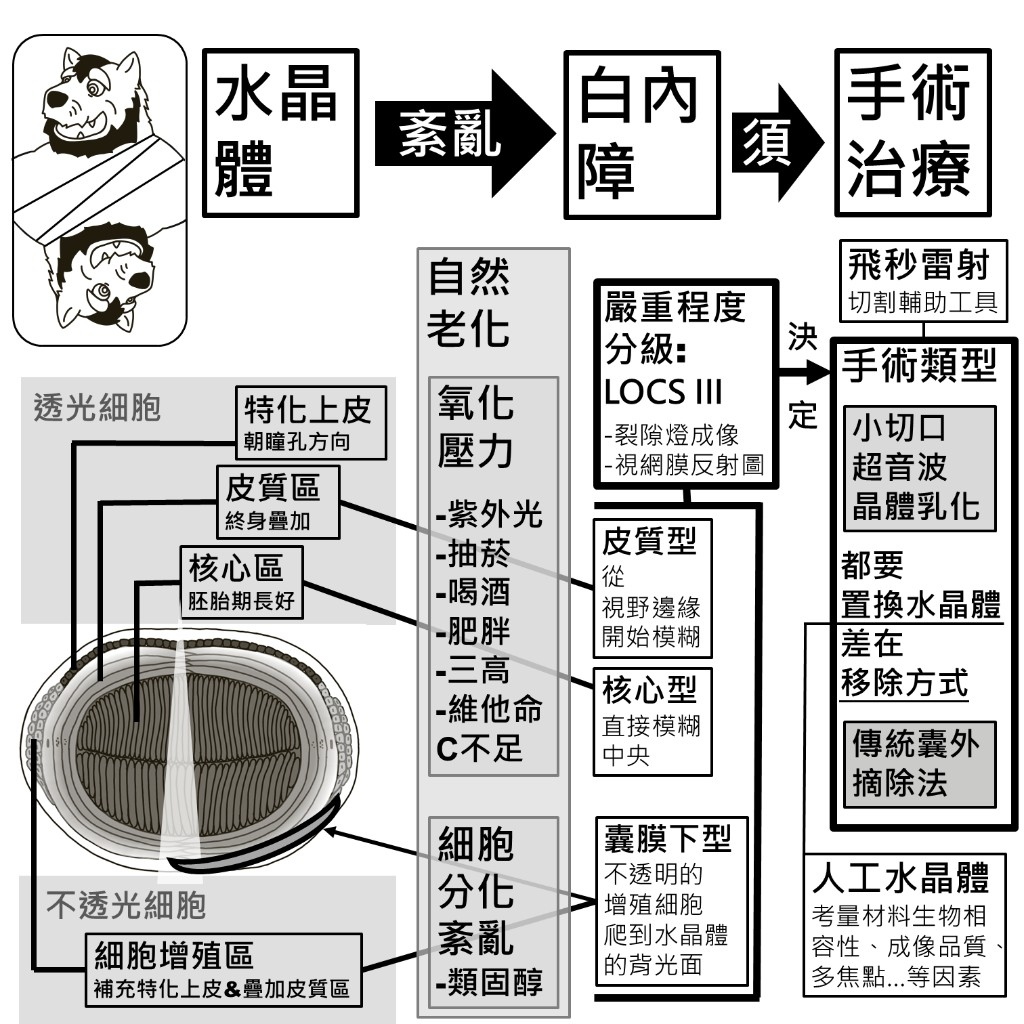
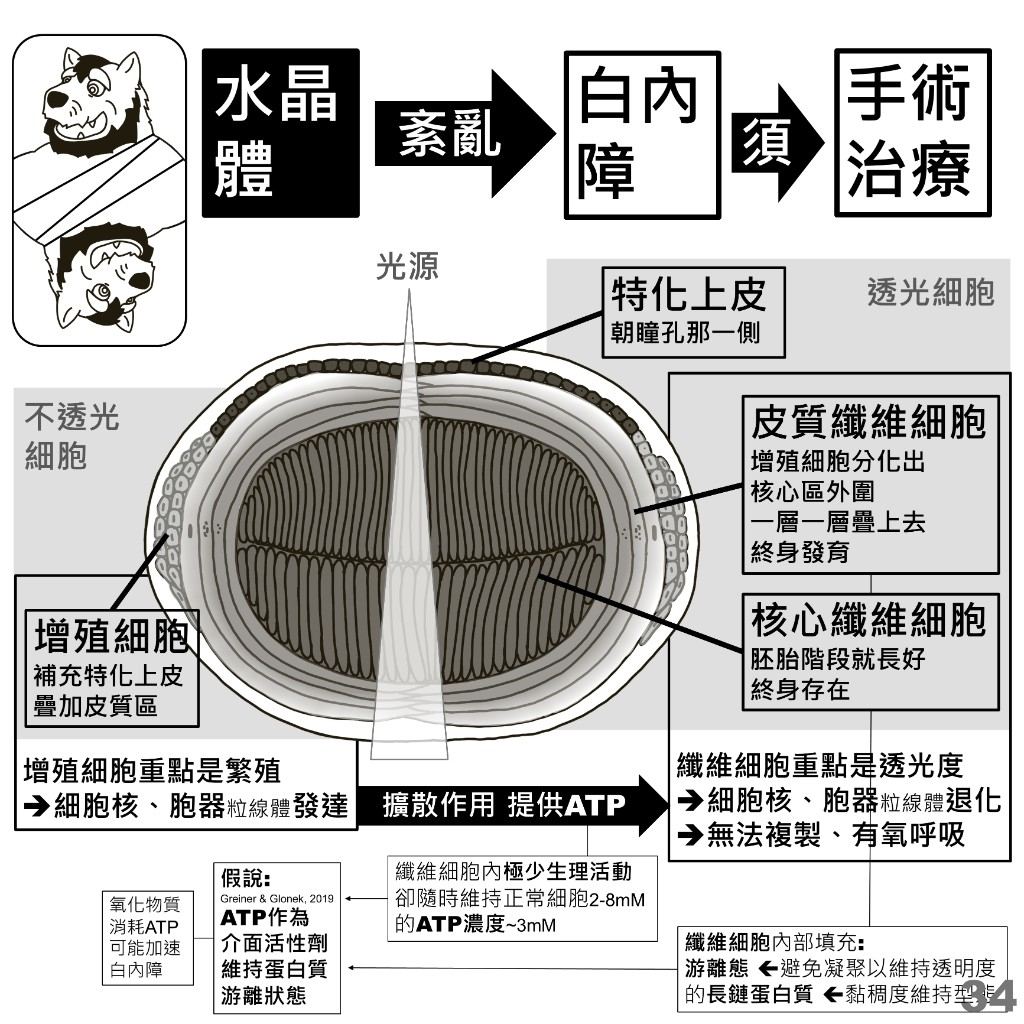
Replace cataract lens structure diagram with corrected version

diff --git a/pages/medical/chronic-disease/chronic-disease-index/cataract/index.html b/pages/medical/chronic-disease/chronic-disease-index/cataract/index.html
@@ -76,11 +76,11 @@
           <div class="info-table-wrap">
             <table class="info-table">
               <thead>
-                <tr><th>重點</th><th>細胞核與胞器（粒線體）</th><th>結果</th></tr>
+                <tr><th>細胞</th><th>重點</th><th>細胞核與胞器（粒線體）</th><th>結果</th></tr>
               </thead>
               <tbody>
-                <tr><td>繁殖</td><td>發達</td><td>不透光</td></tr>
-                <tr><td>透光度</td><td>退化</td><td>無法複製、無法有氧呼吸</td></tr>
+                <tr><td>增殖細胞</td><td>繁殖</td><td>發達</td><td>不透光</td></tr>
+                <tr><td>纖維細胞</td><td>透光度</td><td>退化</td><td>無法複製、無法有氧呼吸</td></tr>
               </tbody>
             </table>
           </div>
